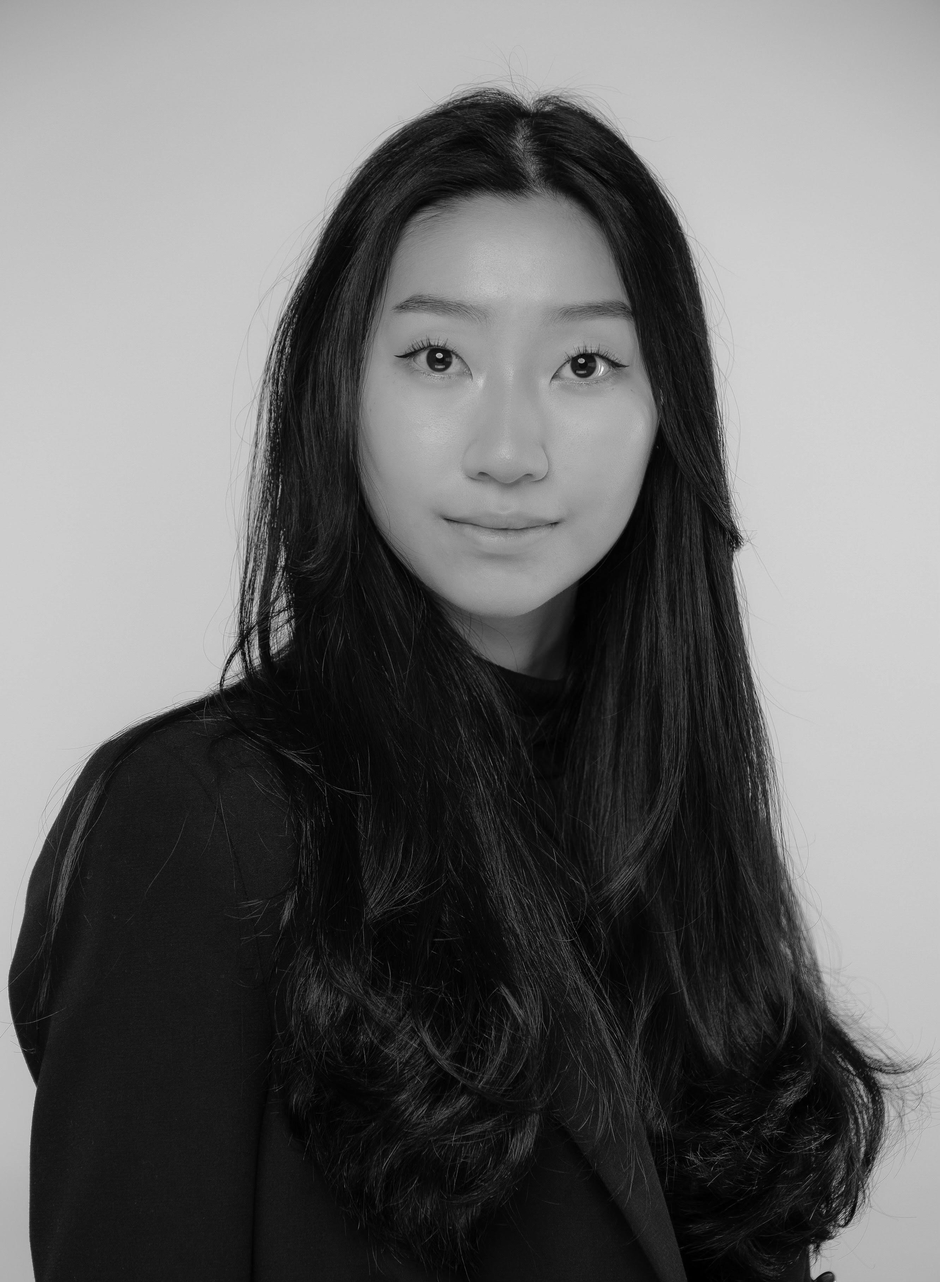
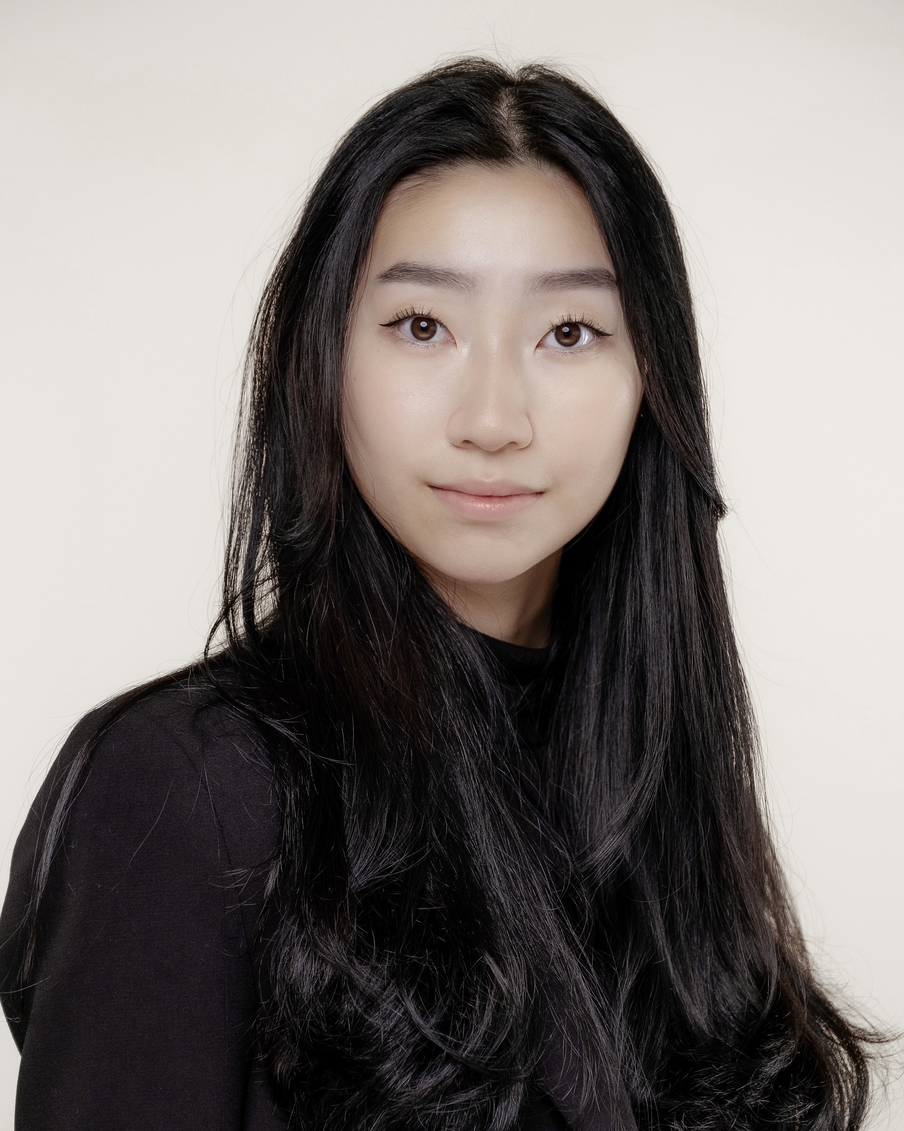
...

diff --git a/src/components/loader.js b/src/components/loader.js
@@ -1,95 +1,84 @@
-import React, { useState, useEffect } from 'react';
-import Helmet from 'react-helmet';
+import React, { useEffect } from 'react';
 import PropTypes from 'prop-types';
-import anime from 'animejs';
-import { IconLoader } from '@components/icons';
-import styled from 'styled-components';
-import { theme, mixins } from '@styles';
+import styled, { keyframes } from 'styled-components';
+import { theme } from '@styles';
 const { colors } = theme;
 
-const StyledContainer = styled.div`
-  ${mixins.flexCenter};
-  background-color: ${colors.darkBg};
-  position: fixed;
-  width: 100%;
-  height: 100%;
-  top: 0;
-  bottom: 0;
-  left: 0;
-  right: 0;
-  z-index: 99;
+const rotateY = keyframes`
+  0%, 50%, 100% {
+    transform: translateX(0);
+  }
+  25% {
+    transform: translateX(2vw);
+  }
+  75% {
+    transform: translateY(2vw);
+  }
 `;
-const StyledLogo = styled.div`
-  width: max-content;
-  max-width: 100px;
-  transition: ${theme.transition};
-  opacity: ${props => (props.isMounted ? 1 : 0)};
-  svg {
-    width: 100%;
-    height: 100%;
-    display: block;
-    margin: 0 auto;
-    fill: none;
-    user-select: none;
-    #B {
-      opacity: 0;
-    }
+
+const rotateX = keyframes`
+  0%, 50%, 100% {
+    transform: translateX(0);
+  }
+  25% {
+    transform: translateX(-2vw);
+  }
+  75% {
+    transform: translateY(-2vw);
+  }
+`;
+
+const StyledLoaderContainer = styled.div`
+  position: fixed;
+  top: 0;
+  left: 0;
+  background-color: ${colors.bg};
+  height: 100vh;
+  width: 100%;
+  display: flex;
+  align-items: center;
+  justify-content: center;
+`;
+
+const StyledLoader = styled.div`
+  position: relative;
+  width: 10vw;
+  height: 5vw;
+  padding: 1.5vw;
+  display: flex;
+  align-items: center;
+  justify-content: center;
+`;
+
+const StyledDot = styled.span`
+  position: absolute;
+  height: 0.8vw;
+  width: 0.8vw;
+  border-radius: 50%;
+  background-color: ${colors.green};
+  &:nth-child(1) {
+    animation: ${rotateY} 0.7s infinite linear;
+  }
+  &:nth-child(2) {
+    animation: ${rotateX} 0.7s infinite linear;
   }
 `;
 
 const Loader = ({ finishLoading }) => {
-  const animate = () => {
-    const loader = anime.timeline({
-      complete: () => finishLoading(),
-    });
-
-    loader
-      .add({
-        targets: '#logo path',
-        delay: 300,
-        duration: 1500,
-        easing: 'easeInOutQuart',
-        strokeDashoffset: [anime.setDashoffset, 0],
-      })
-      .add({
-        targets: '#logo #B',
-        duration: 700,
-        easing: 'easeInOutQuart',
-        opacity: 1,
-      })
-      .add({
-        targets: '#logo',
-        delay: 500,
-        duration: 300,
-        easing: 'easeInOutQuart',
-        opacity: 0,
-        scale: 0.1,
-      })
-      .add({
-        targets: '.loader',
-        duration: 200,
-        easing: 'easeInOutQuart',
-        opacity: 0,
-        zIndex: -1,
-      });
-  };
-
-  const [isMounted, setIsMounted] = useState(false);
-
   useEffect(() => {
-    const timeout = setTimeout(() => setIsMounted(true), 10);
-    animate();
+    const timeout = setTimeout(() => {
+      finishLoading();
+    }, 1000); // Set this to the desired loader display duration
     return () => clearTimeout(timeout);
-  }, []);
+  }, [finishLoading]);
 
   return (
-    <StyledContainer className="loader">
-      <Helmet bodyAttributes={{ class: `hidden` }} />
-
-      <StyledLogo isMounted={isMounted}>
-        <IconLoader />
-      </StyledLogo>
-    </StyledContainer>
+    <StyledLoaderContainer className="loader-div">
+      <StyledLoader>
+        <StyledDot />
+        <StyledDot />
+      </StyledLoader>
+    </StyledLoaderContainer>
   );
 };
 

diff --git a/src/components/sections/about.js b/src/components/sections/about.js
@@ -46,10 +46,11 @@ const StyledPic = styled.div`
 const StyledAvatar = styled(Img)`
   position: relative;
   mix-blend-mode: multiply;
-  filter: grayscale(100%) contrast(1);
+  filter: grayscale(100%) contrast(1); // Start in grayscale
   border-radius: ${theme.borderRadius};
-  transition: ${theme.transition};
+  transition: ${theme.transition}; // Ensure transitions are set to animate changes
 `;
+
 const StyledAvatarLink = styled.a`
   ${mixins.boxShadow};
   width: 100%;
@@ -57,27 +58,8 @@ const StyledAvatarLink = styled.a`
   border-radius: ${theme.borderRadius};
   background-color: ${colors.lightestSlate};
   margin-left: -20px;
-  &:hover,
-  &:focus {
-    background: transparent;
-    &:after {
-      top: 15px;
-      left: 15px;
-    }
-    ${StyledAvatar} {
-      filter: none;
-      mix-blend-mode: normal;
-    }
-  }
-  &:before,
-  &:after {
-    content: '';
-    display: block;
-    position: absolute;
-    width: 100%;
-    height: 100%;
-    border-radius: ${theme.borderRadius};
-    transition: ${theme.transition};
+  &:hover ${StyledAvatar}, &:focus ${StyledAvatar} {
+    filter: none; // Remove filter on hover/focus, showing the image in full color
   }
   &:before {
     top: 0;
@@ -94,6 +76,7 @@ const StyledAvatarLink = styled.a`
     z-index: -1;
   }
 `;
+
 const TechnologyContainer = styled.div`
   display: flex;
   flex-wrap: wrap;

diff --git a/src/components/icons/index.js b/src/components/icons/index.js
@@ -7,7 +7,6 @@ export { default as FormattedIcon } from './formattedIcon';
 export { default as IconGitHub } from './github';
 export { default as IconInstagram } from './instagram';
 export { default as IconLinkedin } from './linkedin';
-export { default as IconLoader } from './loader';
 export { default as IconLocation } from './location';
 export { default as IconLogo } from './logo';
 export { default as IconPlayStore } from './playstore';

diff --git a/content/hero/index.md b/content/hero/index.md
@@ -1,5 +1,5 @@
 ---
-title: "hey! i'm..."
-name: 'Alvina.'
-subtitle: 'i can somewhat code :)'
+title: 'print("hello world!")'
+name: "I'm Alvina."
+subtitle: '... and i can somewhat code :)'
 ---
